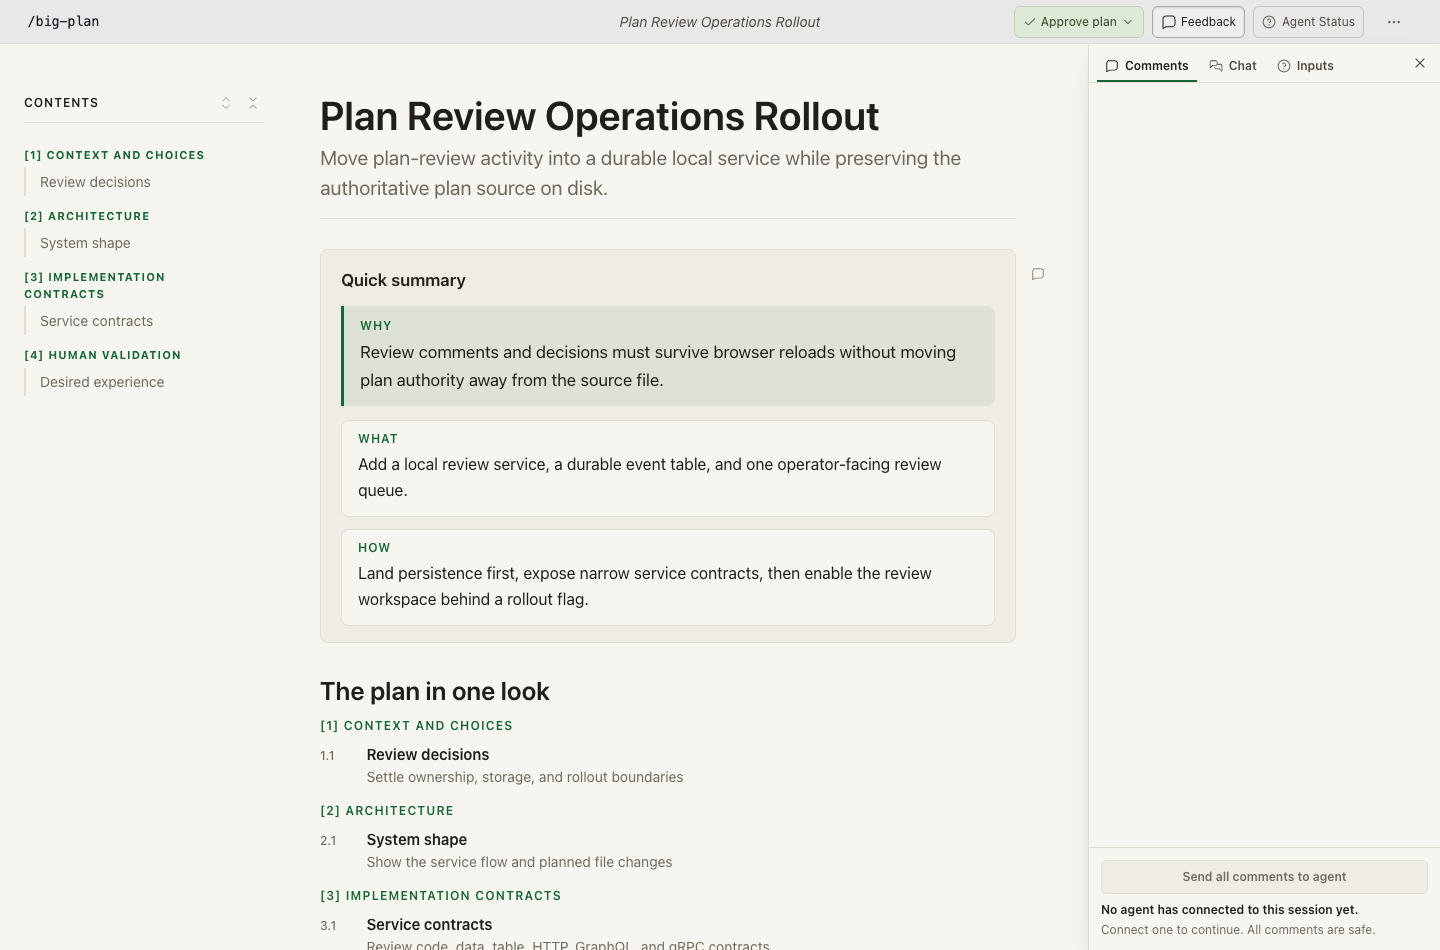
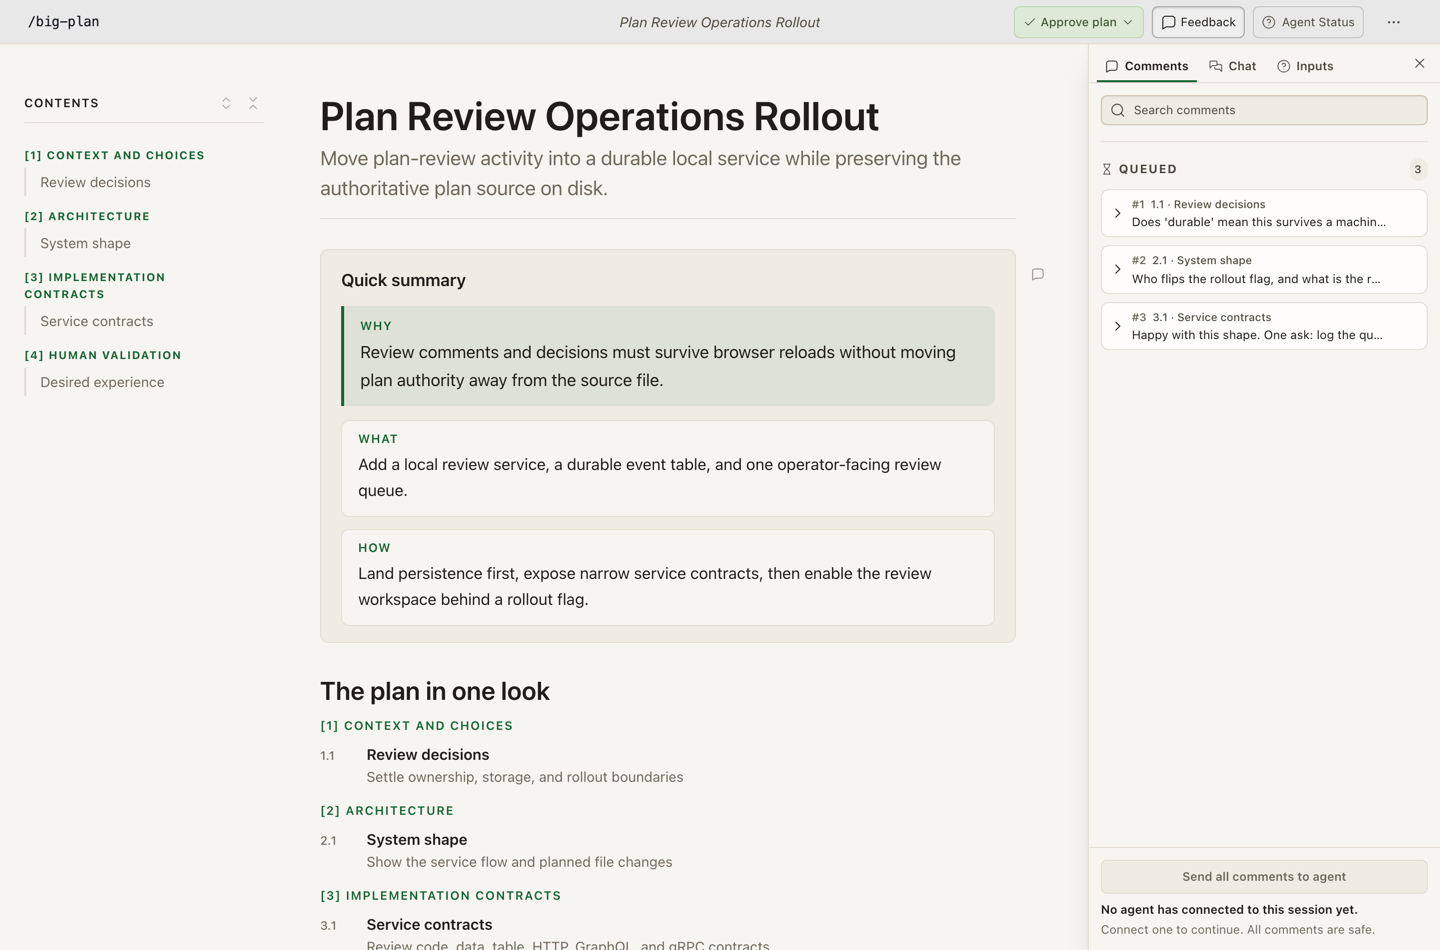
feat(docs): show a scannable plan, and say less on the way in
Six review items from the captain.

The hero showed a plan with one contents entry and two dense paragraphs -
the wall of text the product exists to replace. It now shows a nine-section
plan with one-line gists, scrolled to a slide whose prose is a single
sentence above the schema, so the picture argues for scannability instead of
against it.

Starlight gives its primary hero action a hover state and its minimal one
none, so "Read the docs" read as static text. It now takes the accent colour
and reveals its underline, with the icon carrying the only movement.

Alpha states the captain's three points in his words. Install loses its goal,
its troubleshooting table, and the screenshot that repeated what the sentence
beside it already said; its two paths are now named as a pair. Your first
review drops to the five things a first-time reader actually does, ending at
approval.

The Feedback sidebar screenshot was captured with an empty queue, which
showed the chrome and none of the point. It now carries three real comments,
each anchored to the slide it was left on.

Claude-Session: https://claude.ai/code/session_01FBqZiSBGfubcczgNq4BgUz

diff --git a/docs/src/styles/site.css b/docs/src/styles/site.css
@@ -361,6 +361,45 @@ a.site-title img {
   justify-content: center;
 }
 
+/* Starlight gives its primary action a hover state and its minimal one none at
+   all, so the second hero action reads as static text until it is clicked.
+   The underline reveal is the link idiom the design principles ask for, and the
+   icon carries the only movement so the label itself never shifts. */
+.hero .actions .sl-link-button.minimal {
+  text-decoration: underline solid transparent;
+  text-underline-offset: 0.35em;
+  transition:
+    color 0.15s ease,
+    text-decoration-color 0.15s ease;
+}
+
+.hero .actions .sl-link-button.minimal:hover,
+.hero .actions .sl-link-button.minimal:focus-visible {
+  color: var(--sl-color-text-accent);
+  text-decoration-color: currentColor;
+}
+
+.hero .actions .sl-link-button.minimal svg {
+  transition: transform 0.15s ease;
+}
+
+.hero .actions .sl-link-button.minimal:hover svg,
+.hero .actions .sl-link-button.minimal:focus-visible svg {
+  transform: translateY(-1px);
+}
+
+@media (prefers-reduced-motion: reduce) {
+  .hero .actions .sl-link-button.minimal,
+  .hero .actions .sl-link-button.minimal svg {
+    transition: none;
+  }
+
+  .hero .actions .sl-link-button.minimal:hover svg,
+  .hero .actions .sl-link-button.minimal:focus-visible svg {
+    transform: none;
+  }
+}
+
 /* The screenshot: straight, full width, and captured at twice its displayed
    size so it stays crisp. No angle, no float. */
 .hero > img,

diff --git a/docs/src/content/docs/intro/first-review.md b/docs/src/content/docs/intro/first-review.md
@@ -1,133 +1,52 @@
 ---
 title: Your first review
-description: Take one plan from your agent's first draft to an approved plan in about five minutes, by asking rather than typing.
+description: Ask your agent for a plan, read it in your browser, talk it through, and approve it.
 ---
 
-**Goal.** One plan served locally, commented on, its questions answered, and approved — the
-whole loop, once, so the rest of the documentation makes sense.
+Your first review takes about five minutes. You will not type a single command — you ask your
+agent, and it does the rest.
 
-You will not type any of this yourself. You ask your coding agent, in plain language, and it runs
-the commands. The commands below are shown so you can recognise what your agent is doing, not so
-you can copy them.
+## 1. Ask your agent for a plan
 
-## Before you start
-
-- **A coding agent** that can run commands in a directory — the one you already work with.
-- **Node.js 22 or newer**, which your agent will check for you.
-- About five minutes. Nothing here touches a server or needs an account.
-
-If your agent has never used Big Plan, see [Install Big Plan](/intro/installation/) first: one
-sentence to your agent sets it up.
-
-## 1. Ask for a review
-
-**You say:**
+Before it starts building something, say:
 
 ```text
-Use Big Plan to put this plan up for review.
+Write a plan for this with Big Plan, then open it for review.
 ```
 
-Use a plan your agent has already written, or ask it for the example plan:
-_"Grab the Big Plan example plan and put that up for review instead."_
+Your agent writes the plan and starts Big Plan, which opens the plan in your browser as a
+document made for reading.
 
-**Your agent runs** three commands, in this order:
+## 2. Read it
 
-```sh
-# 1. Read the plan-writing principles. This also unlocks the next two
-#    commands in this directory for 24 hours.
-npx -y big-plan@latest guidance
+You get a real document: a table of contents, sections you can collapse, and the diagrams,
+diffs, tables, and schemas the plan needs — not a wall of Markdown in a terminal.
 
-# 2. Check the plan compiles, and report anything wrong with it.
-npx -y big-plan@latest validate plan.mdx
+Read it the way you would read anything. The point of the next few minutes is to find out whether
+you actually agree with the approach.
 
-# 3. Serve the plan for review, and keep serving it.
-npx -y big-plan@latest review plan.mdx
-```
+## 3. Talk it through
 
-The first is a gate, not a formality: `validate`, `render`, and `review` fail with
-`GUIDANCE_REQUIRED` until it has been run. It is written for whoever writes the plan, so it is
-your agent's reading, not yours.
+Select any sentence and choose **Comment**. Ask whatever you want — "why this order?", "what
+happens if this fails?" Your agent answers in the thread, right next to the thing you asked
+about.
 
-**You see** your agent report that the plan checks out, and hand you an address:
+The plan has questions for you too. When you reach a decision card, pick the option you want.
 
-```text
-validated: /Users/you/plan.mdx
-title: Ship the checkout retry queue
-sections: 11
-components: 18
+Two ways to change the plan, and you can mix them freely:
 
-review: "http://127.0.0.1:8790/plan/61ba8e0b1849b290"
-```
+- **Ask your agent** — "swap the queue for a cron job" — and it revises the plan, which updates
+  in front of you.
+- **Use the review yourself** — answer decisions and leave comments directly in the document.
 
-That `review:` address is the one worth saving. It is derived from the plan's path, so it is the
-same for every review of this plan and keeps answering through restarts.
+## 4. Approve it
 
-If your agent reports diagnostics instead, ask it to fix them: _"Fix those and try again."_ Each
-one is `line:column message`, and lint entries add `[rule-id]` — all of it addressed to the agent.
+When you are happy with the approach, choose **Approve plan**.
 
-## 2. Open the review
+Your answers are written into the plan file, the agent gets your approval note, and it can start
+building — against a plan you have actually read and agreed with.
 
-Open the address in your browser. Your agent leaves the review running while you read.
-
-From here on, everything is yours to do. Big Plan is a reading and reviewing surface, and no part
-of the rest of this page involves a command.
-
-## 3. Leave a comment
-
-Select a sentence in the plan and choose **Comment**, or use a slide's comment icon.
-
-Write anything — "why this order?" — and choose **Submit Now**.
-
-Open **Feedback** in the branding bar to see it. If your agent is not connected to the review yet,
-the thread reads **Blocked - no agent connected** and sends itself the moment one arrives. That is
-the expected behaviour, and it is worth seeing once.
-
-## 4. Answer a decision
-
-Scroll to a decision card. Choose an option and confirm.
-
-The caption tells you the answer is saved with this review — it survives a reload and a runtime
-restart. Open **Feedback** and switch to **Inputs**: that decision now reads answered, and
-anything you have not settled reads not answered.
-
-## 5. Approve
-
-Choose **Approve plan** in the branding bar.
-
-The dialog reports what is accepted and what is still open, the decisions you answered and the
-ones you did not, and the covering note that will go to your agent. Confirm it.
-
-Approval writes your answers into the plan file itself: the decision gains `state="decided"` and
-the option you chose gains `chosen`. Nothing else in the file changes. Ask your agent to show you
-the file afterwards — that is the whole point of the workflow.
-
-## Verify
-
-Ask your agent: _"Show me what approving changed."_ You should hear back that:
-
-- The plan file now contains at least one `state="decided"` and one `chosen`.
-- A `.big-plan/` directory sits beside the plan, holding the review state and the approval brief.
-
-And on your own screen, the page shows the plan stamped approved.
-
-## If it goes wrong
-
-The left column is mostly what your _agent_ runs into, which reaches you as a sentence from it
-rather than as an error on your screen. Either way, the right column is what to say back.
-
-| What you see                            | What to say                                                                                               |
-| --------------------------------------- | --------------------------------------------------------------------------------------------------------- |
-| Your agent mentions `GUIDANCE_REQUIRED` | _"Run Big Plan's guidance command in that directory first."_                                              |
-| Your agent mentions `custody: held`     | _"A review is already serving that plan — give me the address it printed."_                               |
-| The page stops accepting changes        | _"Restart the Big Plan review."_ See [When a review goes wrong](/reference/commands/review/)              |
-| **Approve plan** is missing             | You are looking at a rendered `.html` file, not the review address. _"Give me the review address again."_ |
-
-## Clean up
-
-_"Stop the Big Plan review and clean up the files it made."_
-
-That stops the runtime and removes the plan copy, any rendered `.html`, and `.big-plan/` — keep
-whichever of them you want.
+That is the whole loop.
 
 ## Next
 

diff --git a/docs/src/content/docs/intro/installation.md b/docs/src/content/docs/intro/installation.md
@@ -1,19 +1,13 @@
 ---
 title: Install Big Plan
-description: Get the Big Plan CLI running, prove it runs, and know what to do when it does not.
+description: Get the Big Plan CLI running, either by asking your agent or by running it yourself.
 ---
-
-**Goal.** A working `big-plan` you can run, and a rendered plan open in your browser to prove
-it.
 
 ## Before you start
 
-- **Node.js 22 or newer.** Check with `node --version`. The published package runs under plain
-  Node.js, so Bun is not required.
-- Nothing else. There is no account, no service to sign up for, and no global install unless
-  you want one.
+Node.js 22 or newer. No account, no service, no global install.
 
-## The fastest install is the one you don't do yourself
+## Install it with your agent
 
 Copy this prompt into your coding agent:
 
@@ -28,7 +22,7 @@ rule to your project's agent instructions so every future session keeps it.
 Authoring principles stay in `big-plan guidance`, so package upgrades refresh them without
 hand-editing skill files.
 
-## Or install it yourself
+## Install it manually
 
 Run it with no install at all:
 
@@ -67,22 +61,8 @@ npx -y big-plan@latest guidance
 npx -y big-plan@latest render plan.mdx
 ```
 
-Open `plan.html` in your browser, and you should see this:
-
-![The example plan rendered in the Big Plan viewer, with section navigation, a comparison table, and themed reading column.](../../../assets/viewer-light.png)
-
-The output is one self-contained HTML file with embedded assets, no external requests, and a
-complete reading experience when scripts are disabled.
-
-## If it goes wrong
-
-| What you see                                      | What it means                                                                 | What to do                                                                                                   |
-| ------------------------------------------------- | ----------------------------------------------------------------------------- | ------------------------------------------------------------------------------------------------------------ |
-| `GUIDANCE_REQUIRED`                               | `render`, `validate`, and `review` are gated                                  | Run `npx -y big-plan@latest guidance` in the same working directory                                          |
-| A syntax error from Node                          | Your Node.js is older than 22                                                 | Upgrade Node; check with `node --version`                                                                    |
-| `npx big-plan` runs an unexpected version         | An unversioned `npx` run may use a matching package already installed locally | Use `npx -y big-plan@latest`, or pin an exact version                                                        |
-| `Cannot render document with invalid MDX`         | The plan has authoring errors                                                 | Every diagnostic is in the `help` entries; see [Fix a validation error](/for-agents/#fix-a-validation-error) |
-| The download wrote an HTML page instead of a plan | `curl` followed a redirect or an error page                                   | Check the file starts with `#`, and re-download                                                              |
+Open `plan.html` in your browser. You get one self-contained HTML file with embedded assets, no
+external requests, and a complete reading experience even with scripts disabled.
 
 ## Next
 

diff --git a/docs/src/content/docs/alpha.md b/docs/src/content/docs/alpha.md
@@ -1,13 +1,14 @@
 ---
 title: Big Plan is in alpha
-description: Three things to know before you use Big Plan - it is early, it is shipping anyway to earn feedback, and breaking changes are expected.
+description: Three things to know before you use Big Plan - we are still exploring, still fixing the UX, and still making breaking changes.
 ---
 
-**This is a very early implementation of an idea we are actively exploring.**
-The tool will likely have significant changes between releases.
+**We are actively exploring the right solution.** Big plan will likely have significant changes
+between releases.
 
-**The current tool does not meet our standards of usability or delight.**
-We are releasing it early anyway, so we can get user feedback.
+**We are still working on the UX.** We know there are a few papercuts in Big Plan today. We are
+releasing it early anyway so that we can get fast user feedback, so please do not be shy about
+sharing your thoughts!
 
-**We will be liberal with making breaking changes.**
-It should not affect anything, since your agent will know how to do the updates anyway.
+**We will make breaking changes.** It should not affect anything, since your agent will know how
+to do the updates anyway, but we do not currently make guarantees around backward-compatibility.
